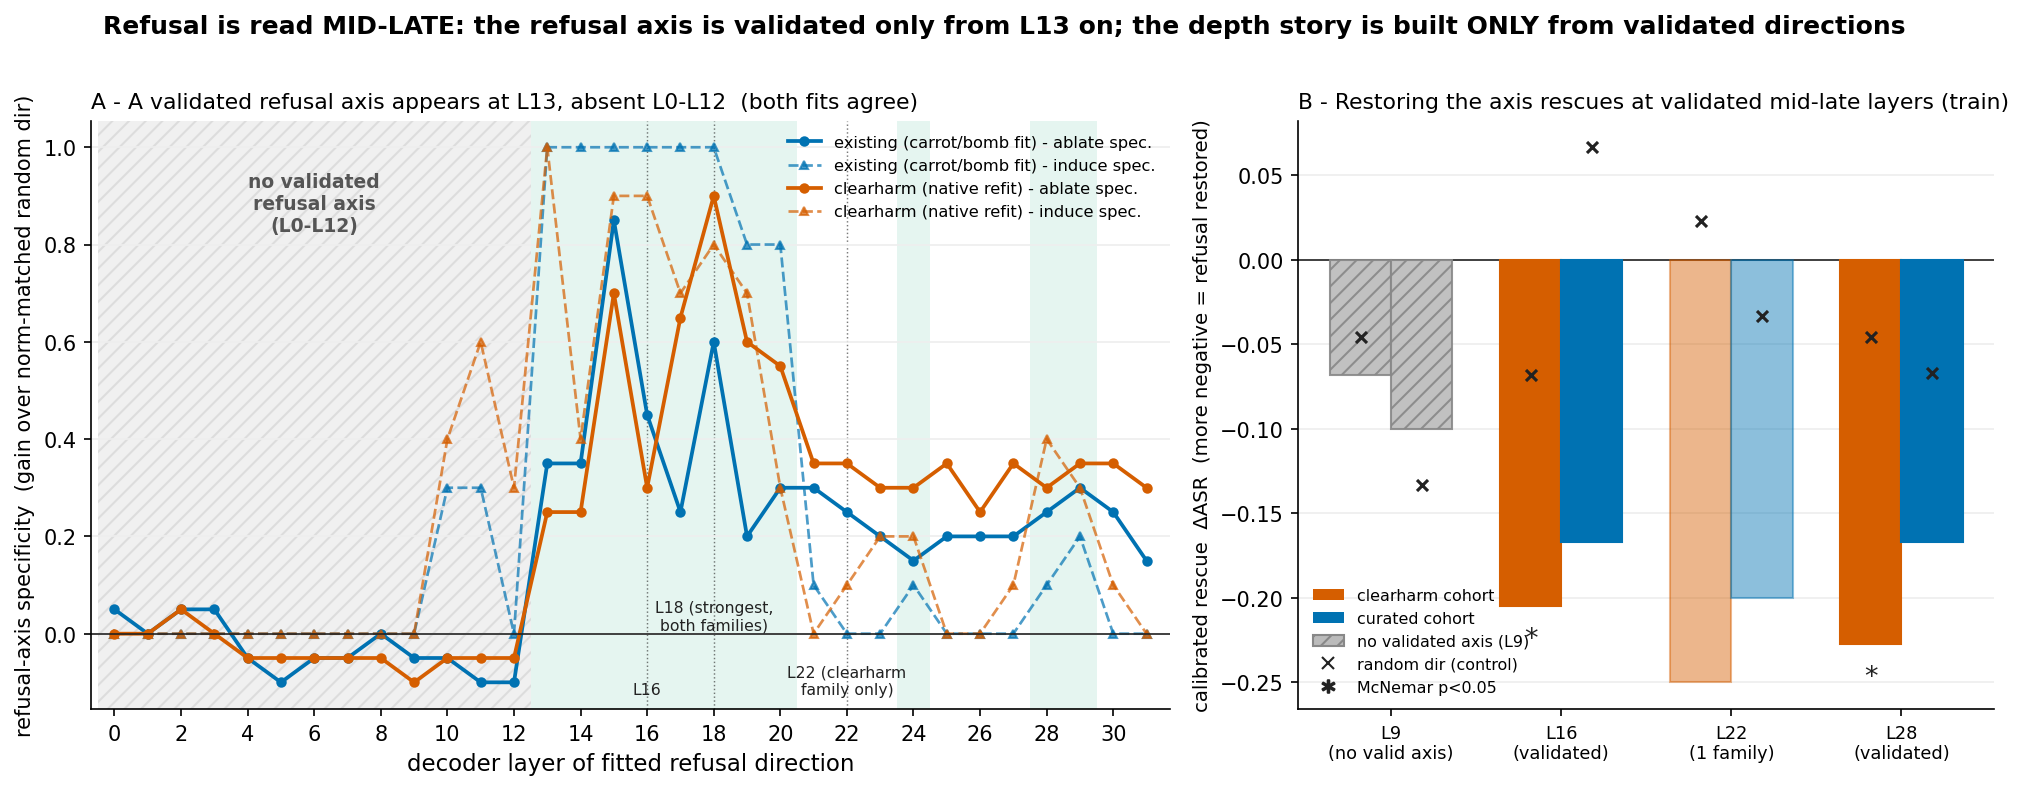
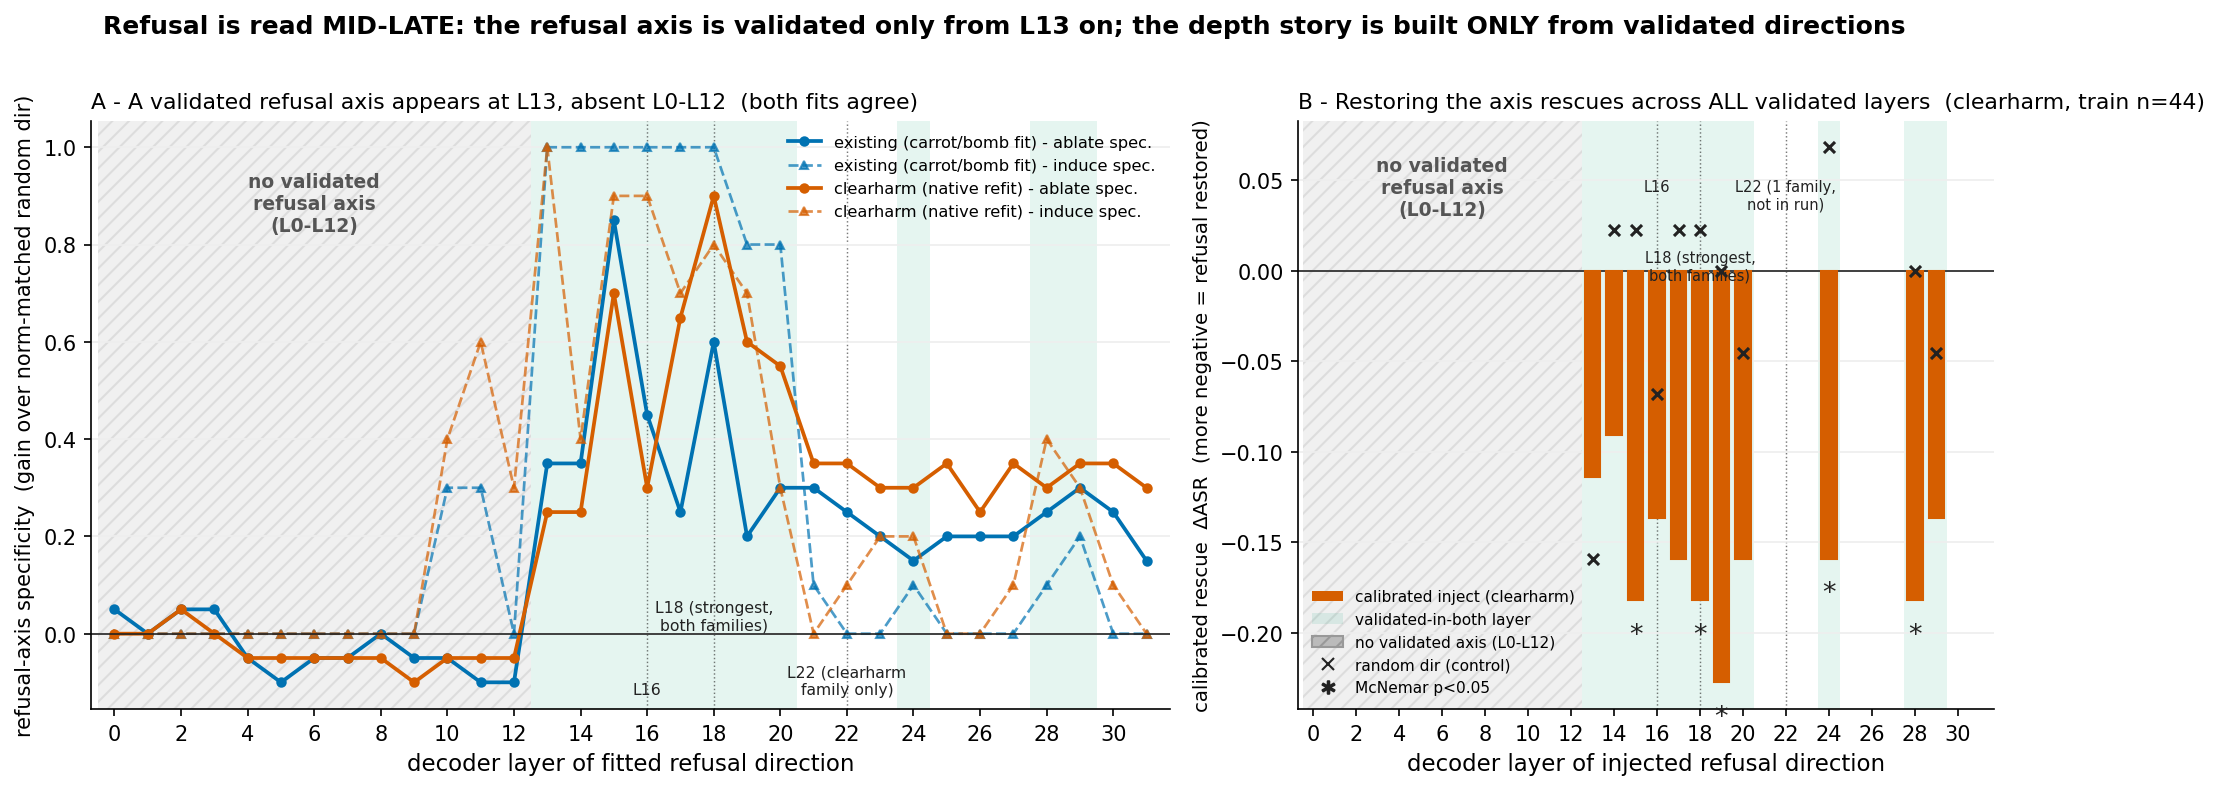
V2: depth Panel B rebuilt with full validated layers (calinj 732204) incl L18
Panel B now shows calibrated refusal-rescue ΔASR across {13-20,24,28,29} (clearharm train n=44): restoration lowers ASR
significantly at L15/L18/L19/L24/L28 (L18 -0.18 p=0.021, L19 -0.23 p=0.006) while norm-random controls ~0 -> behavioral
support that restoring refusal reduces jailbreak. Values recomputed from raw, cross-checked vs summary. Panel A unchanged.
Gap: new run is clearharm-only (no curated cohort).

Claude-Session: https://claude.ai/code/session_01DCFbd64bhRii24zJyx9j51

diff --git a/doublespeak_causality/scripts/make_depth_validated_figure.py b/doublespeak_causality/scripts/make_depth_validated_figure.py
@@ -7,8 +7,8 @@ Every plotted number is recomputed from raw.jsonl (never from report prose):
               random controls), both direction families, all 32 layers.
               Source: outputs/refval_clearharm_20260806_054117_722611/raw.jsonl (job 722611, full sweep).
   Panel B  -- calibrated rescue delta_ASR (adding the refusal axis back reduces attack success),
-              at the injectable layers {9,16,22,28}, both cohorts.
-              Source: outputs/refinject_cal_{clearharm,curated}/raw.jsonl (train split).
+              over the FULL P7-validated layer set {13,14,15,16,17,18,19,20,24,28,29}, clearharm cohort.
+              Source: outputs/refinject_cal_clearharm_20260807_165205_732204/raw.jsonl (train split, n=44).
 
 Validated-in-BOTH-families set = {13,14,15,16,17,18,19,20,24,28,29}. L0-L12 have NO validated refusal
 axis and are greyed/hatched; one-family-only layers (21,22,23,27,30) are drawn faded, never as evidence.
@@ -55,25 +55,25 @@ def spec(fam, layer):
 A = {fam: {L: spec(fam, L) for L in LAYERS} for fam in FAMS}
 
 # ----------------------------------------------------------------------------- Panel B data (from raw)
-INJ = {"clearharm": os.path.join(OUT, "refinject_cal_clearharm_20260804_194105_711685", "raw.jsonl"),
-       "curated":   os.path.join(OUT, "refinject_cal_curated_20260804_213213_711769", "raw.jsonl")}
-INJ_L = [9, 16, 22, 28]
-B = {}
-for cohort, path in INJ.items():
-    rows = [r for r in (json.loads(l) for l in open(path)) if r["split"] == "train"]
-    n = len(rows)
-    base = sum(r["ds_base_label"] == "MALICIOUS" for r in rows) / n
-    B[cohort] = {"n": n}
-    for L in INJ_L:
-        cal = sum(r[f"ds_cal_L{L}_label"] == "MALICIOUS" for r in rows) / n
-        rnd = sum(r[f"ds_calrand_L{L}_label"] == "MALICIOUS" for r in rows) / n
-        B[cohort][L] = {"delta_ASR": cal - base, "rand_delta_ASR": rnd - base}
-# McNemar p-values are read from the committed summaries (paired-test statistic, not a raw mean)
-for cohort in INJ:
-    sdir = os.path.dirname(INJ[cohort])
-    s = json.load(open(os.path.join(sdir, "summary.json")))["by_split"]["train"]["by_layer_vs_ds_base"]
-    for L in INJ_L:
-        B[cohort][L]["p"] = s[str(L)]["mcnemar_p"]
+# NEW calibrated-inject run over the FULL P7-validated layer set (clearharm cohort only).
+INJ_DIR = os.path.join(OUT, "refinject_cal_clearharm_20260807_165205_732204")
+INJ_L = [13, 14, 15, 16, 17, 18, 19, 20, 24, 28, 29]     # every layer in this run == validated-in-both
+inj_rows = [r for r in (json.loads(l) for l in open(os.path.join(INJ_DIR, "raw.jsonl")))
+            if r["split"] == "train"]
+inj_n = len(inj_rows)
+inj_base = sum(r["ds_base_label"] == "MALICIOUS" for r in inj_rows) / inj_n
+B = {"n": inj_n, "base_ASR": inj_base}
+for L in INJ_L:
+    cal = sum(r[f"ds_cal_L{L}_label"] == "MALICIOUS" for r in inj_rows) / inj_n
+    rnd = sum(r[f"ds_calrand_L{L}_label"] == "MALICIOUS" for r in inj_rows) / inj_n
+    B[L] = {"delta_ASR": cal - inj_base, "rand_delta_ASR": rnd - inj_base}
+# McNemar p-values are read from the committed summary (paired-test statistic, not a raw mean)
+_bl = json.load(open(os.path.join(INJ_DIR, "summary.json")))["by_split"]["train"]["by_layer_vs_ds_base"]
+for L in INJ_L:
+    B[L]["p"] = _bl[str(L)]["mcnemar_p"]
+    # cross-check the raw-recomputed delta against the committed summary
+    assert abs(B[L]["delta_ASR"] - _bl[str(L)]["delta_ASR"]) < 1e-3, (L, B[L], _bl[str(L)])
+    assert abs(B[L]["rand_delta_ASR"] - _bl[str(L)]["rand_delta_ASR"]) < 1e-3, (L, B[L], _bl[str(L)])
 
 # ============================================================================= FIGURE
 fig, (axA, axB) = plt.subplots(1, 2, figsize=(13.5, 5.2), gridspec_kw={"width_ratios": [1.55, 1]})
@@ -116,51 +116,46 @@ axA.legend(fontsize=7.8, frameon=False, loc="upper right", ncol=1)
 axA.spines[["top", "right"]].set_visible(False); axA.grid(axis="y", color="#EEEEEE")
 
 # ---- Panel B ---------------------------------------------------------------------------------------
-# bar layout: two cohorts side by side per layer
-cohorts = ["clearharm", "curated"]
-coh_col = {"clearharm": ORANGE, "curated": BLUE}
-w = 0.36
-xpos = list(range(len(INJ_L)))
-for ci, cohort in enumerate(cohorts):
-    offs = (ci - 0.5) * w
-    for xi, L in enumerate(INJ_L):
-        d = B[cohort][L]["delta_ASR"]; p = B[cohort][L]["p"]
-        invalid = (L not in VALID_BOTH)                 # L9 invalid; L22 one-family
-        one_fam = (L == 22)
-        col = coh_col[cohort]
-        hatch = None; alpha = 1.0; ec = col
-        if L == 9:
-            col = GREY; ec = "#888888"; hatch = "///"; alpha = 0.9   # no validated axis
-        elif one_fam:
-            alpha = 0.45                                             # one-family only, not evidence
-        axB.bar(xi + offs, d, width=w, color=col, edgecolor=ec, hatch=hatch, alpha=alpha, zorder=3)
-        # random control
-        axB.scatter(xi + offs, B[cohort][L]["rand_delta_ASR"], color=INK, marker="x", s=28, zorder=5)
-        # significance star
-        if p < 0.05 and L in VALID_BOTH:
-            axB.text(xi + offs, d - 0.012, "*", ha="center", va="top", fontsize=13, color=INK)
+# x-axis == decoder layer (aligned with Panel A): full validated layer set, clearharm cohort.
+# grey/hatch the region with no validated refusal axis (consistent with Panel A)
+axB.axvspan(-0.5, 12.5, facecolor=GREY, alpha=0.22, hatch="///", edgecolor="#999999", zorder=0, lw=0)
+# faint green shading on validated-in-both layers
+for L in VALID_BOTH:
+    axB.axvspan(L - 0.5, L + 0.5, facecolor=GREEN, alpha=0.10, zorder=0, lw=0)
+
+w = 0.72
+for L in INJ_L:
+    d = B[L]["delta_ASR"]; p = B[L]["p"]
+    axB.bar(L, d, width=w, color=ORANGE, edgecolor=ORANGE, alpha=1.0, zorder=3)
+    # random-direction control (norm-matched) at the same layer
+    axB.scatter(L, B[L]["rand_delta_ASR"], color=INK, marker="x", s=28, zorder=5)
+    # significance star (McNemar vs ds_base)
+    if p < 0.05:
+        axB.text(L, d - 0.012, "*", ha="center", va="top", fontsize=13, color=INK)
 
 axB.axhline(0, color=INK, lw=0.8)
-axB.set_xticks(xpos)
-xlabels = []
-for L in INJ_L:
-    if L == 9:
-        xlabels.append("L9\n(no valid axis)")
-    elif L == 22:
-        xlabels.append("L22\n(1 family)")
-    else:
-        xlabels.append(f"L{L}\n(validated)")
-axB.set_xticklabels(xlabels, fontsize=8.5)
+axB.set_xlim(-0.7, 31.7)
+ylo, yhi = axB.get_ylim()
+axB.text(6, yhi - (yhi - ylo) * 0.06, "no validated\nrefusal axis\n(L0-L12)", ha="center", va="top",
+         fontsize=9, color="#555555", fontweight="bold")
+# anchor layer markers (L16, L18 have data here; L22 is clearharm-family-only, not in this run)
+for L, note, frac in [(16, "L16", 0.90), (18, "L18 (strongest,\nboth families)", 0.78),
+                      (22, "L22 (1 family,\nnot in run)", 0.90)]:
+    axB.axvline(L, color=INK, lw=0.7, ls=":", alpha=0.6, zorder=1)
+    axB.text(L, ylo + (yhi - ylo) * frac, note, ha="center", va="top", fontsize=7.0, color=INK)
+axB.set_xticks(range(0, 32, 2))
+axB.set_xlabel("decoder layer of injected refusal direction", fontsize=11)
 axB.set_ylabel("calibrated rescue  ΔASR  (more negative = refusal restored)", fontsize=9.5)
-axB.set_title("B - Restoring the axis rescues at validated mid-late layers (train)", fontsize=10.5, loc="left")
+axB.set_title(f"B - Restoring the axis rescues across ALL validated layers  (clearharm, train n={B['n']})",
+              fontsize=10.5, loc="left")
 axB.spines[["top", "right"]].set_visible(False); axB.grid(axis="y", color="#EEEEEE")
 
-legB = [Patch(facecolor=ORANGE, label="clearharm cohort"),
-        Patch(facecolor=BLUE, label="curated cohort"),
-        Patch(facecolor=GREY, hatch="///", edgecolor="#888888", label="no validated axis (L9)"),
+legB = [Patch(facecolor=ORANGE, label="calibrated inject (clearharm)"),
+        Patch(facecolor=GREEN, alpha=0.10, label="validated-in-both layer"),
+        Patch(facecolor=GREY, hatch="///", edgecolor="#999999", label="no validated axis (L0-L12)"),
         Line2D([0], [0], marker="x", color=INK, ls="none", label="random dir (control)"),
         Line2D([0], [0], marker="$*$", color=INK, ls="none", label="McNemar p<0.05")]
-axB.legend(handles=legB, fontsize=7.6, frameon=False, loc="lower left")
+axB.legend(handles=legB, fontsize=7.4, frameon=False, loc="lower left")
 
 fig.suptitle("Refusal is read MID-LATE: the refusal axis is validated only from L13 on; "
              "the depth story is built ONLY from validated directions",
@@ -179,9 +174,8 @@ for L in LAYERS:
     e = A["existing"][L]; c = A["clearharm"][L]
     mark = "*" if L in VALID_BOTH else " "
     print(f" {L:2}{mark}| {e[0]:+.3f} / {e[1]:+.3f}  |  {c[0]:+.3f} / {c[1]:+.3f}")
-print("\nPANEL B  calibrated rescue delta_ASR (train), by cohort")
-for cohort in cohorts:
-    print(f"  {cohort} (n={B[cohort]['n']}):")
-    for L in INJ_L:
-        b = B[cohort][L]
-        print(f"    L{L:2}: dASR={b['delta_ASR']:+.4f}  rand={b['rand_delta_ASR']:+.4f}  p={b['p']:.4f}")
+print(f"\nPANEL B  calibrated rescue delta_ASR (clearharm, train n={B['n']}, base_ASR={B['base_ASR']:.4f})")
+for L in INJ_L:
+    b = B[L]
+    star = " *" if b["p"] < 0.05 else "  "
+    print(f"    L{L:2}: dASR={b['delta_ASR']:+.4f}  rand={b['rand_delta_ASR']:+.4f}  p={b['p']:.5f}{star}")
